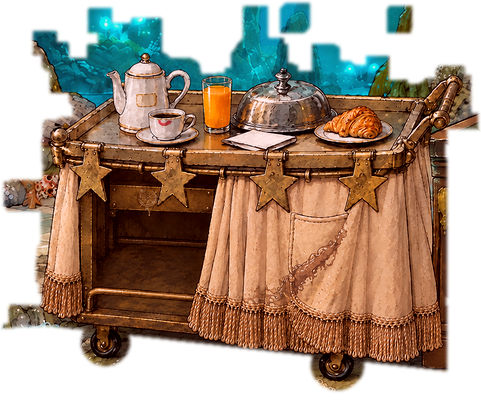
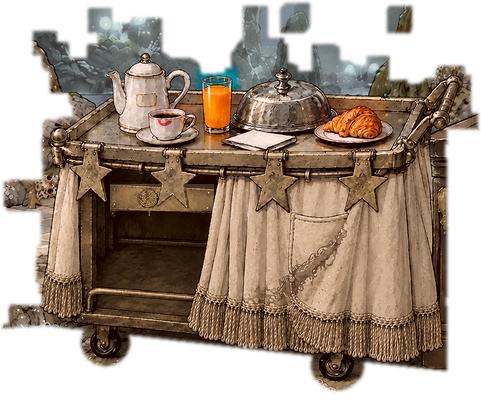
st_w5_trolley: цвет выровнен по Z03 и номеру, пластина видна (замечание автора)
- генератор при перерисовке участка ×3 сделал раму медно-рыжей, юбку лососевой; цвет перенесён в Lab по принятой st_w1_trolley_folded, сок/круассан/помада — в исходном цвете
- пластина 1908 высветлена, оттиск контрастнее, мокрый блик
- листы sheet_1010_w5_trolley_fix.png, sheet_1010_trolley_colors.png; README

Claude-Session: https://claude.ai/code/session_01KtQKgqP4XoDbZ9H4UhrjXu

diff --git a/work/higgsfield/candidates/cutouts_1010/README.md b/work/higgsfield/candidates/cutouts_1010/README.md
@@ -24,7 +24,7 @@
 |---|---|---|
 | `st_w2_trolley` | 6cb17459 от `room_w2` → `room_w2__st_w2_trolley.png`; за стойкой в дальнем левом конце у откидной доски | база `room_w2`, `--box 20,470,310,810 --thresh 45 --open 3 --close 31 --align 6 --grow 10 --feather 3` (порог 45: генератор слегка перерисовал фон вокруг, при 14 маска захватывала всю рамку) |
 | `st_w4_trolley_hall` (**место — вопрос автору**) | 21087263 от `room_w4` (с мелом) → `room_w4__st_w4_trolley_hall.png`; справа от стойки «Наследие», перед бархатным канатом | база `room_w4`, `--box 1180,470,1480,710 --thresh 18 --open 3 --close 31 --align 6 --grow 8 --feather 3` |
-| `st_w5_trolley` (переделано по замечанию автора: пластина как в Z03) | 1f64eb45 от `room_w5`; участок 400,410–960,830 ×3 перерисован (01341fdd — шторка отодвинута слева, затем 14c0a4ba — пластина по эталону Z03: маленькая горизонтальная, четыре винта, задняя поперечина, за второй звездой, мокрый оттиск), уменьшен и вклеен в кадр по самой тележке (тело до x 866 / y 808, ручка до x 890) → `room_w5__st_w5_trolley.png`; участок — `room_w5__st_w5_trolley__x3.png` | база `room_w5`, `--box 430,420,892,812 --thresh 45 --open 3 --close 31 --align 6 --grow 10 --feather 3`; затем альфа обрезана: ниже кромки юбки (линия 463,744–860,789) — только колёса (эллипсы 500,738–548,784 и 730,760–782,808), справа от x 866 ниже y 548 — пусто, растушёвка 1,5. Зачем: щупальца `st_w5_kuh` лежат на уступе под тележкой и свисают с края — слой тележки идёт поверх `st_w5_kuh` и не должен закрывать их кусками голого камня; тележка бывает и без Кухули (`in_office`), слой годится для обоих кадров |
+| `st_w5_trolley` (переделано по замечанию автора: пластина как в Z03) | 1f64eb45 от `room_w5`; участок 400,410–960,830 ×3 перерисован (01341fdd — шторка отодвинута слева, затем 14c0a4ba — пластина по эталону Z03: маленькая горизонтальная, четыре винта, задняя поперечина, за второй звездой, мокрый оттиск), уменьшен и вклеен в кадр по самой тележке (тело до x 866 / y 808, ручка до x 890) → `room_w5__st_w5_trolley.png`; участок — `room_w5__st_w5_trolley__x3.png` | база `room_w5`, `--box 430,420,892,812 --thresh 45 --open 3 --close 31 --align 6 --grow 10 --feather 3`; затем альфа обрезана: ниже кромки юбки (линия 463,744–860,789) — только колёса (эллипсы 500,738–548,784 и 730,760–782,808), справа от x 866 ниже y 548 — пусто, растушёвка 1,5. Зачем: щупальца `st_w5_kuh` лежат на уступе под тележкой и свисают с края — слой тележки идёт поверх `st_w5_kuh` и не должен закрывать их кусками голого камня; тележка бывает и без Кухули (`in_office`), слой годится для обоих кадров Затем (замечание автора: тележка в W5 «как из другого материала», пластина не видна): цвет слоя выровнен по принятой `st_w1_trolley_folded` — в Lab каналы a, b перенесены по среднему и разбросу, L сдвинут на половину разницы, лёгкий холодный оттенок пещеры (b −2); стакан сока, круассан и помада на чашке оставлены в исходном цвете (прямоугольники 616,486–656,560; 736,518–806,566; 570,522–612,548); пластина 529–633 × 603–630 высветлена (L +20 по тёмным пикселям, звезда не тронута), оттиск в круге r 10,5 у 567,617 — контраст, тёмный ободок, мокрый блик. Лист `sheet_1010_trolley_colors.png` |
 
 **Место тележки в W4.** Спека: «на мозаике у решётки лифта, между стойкой „Наследие“ и лифтом». Первая проба там (af5d3bb7) в склейке Акта III (зеркало отставлено, лестница открыта, куча «дизайна», доска «НАШЕ») закрывает кучу и низ входа на лестницу — `trolley_in_hall` держится весь Акт III вместе с этими слоями; вдобавок светлая юбка на светлой мозаике не даёт чистой маски. Предложено место справа от стойки — там нет ни одного слоя W4. Строка спеки правится после решения автора.
 
